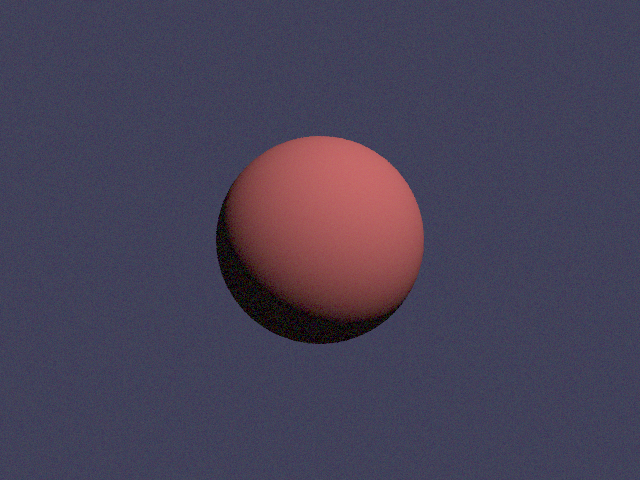
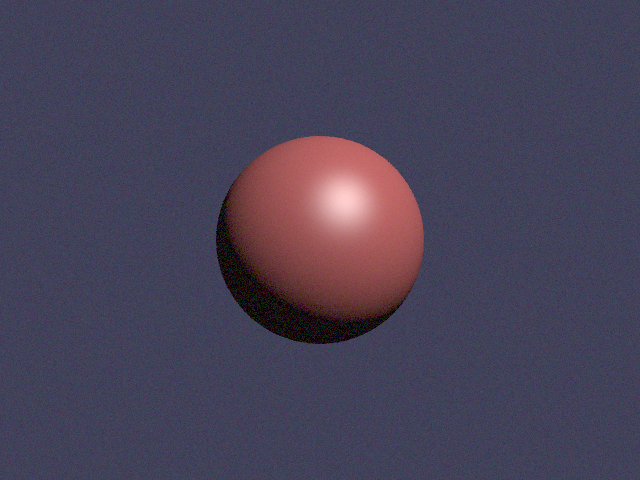
feat(shading): add Blinn-Phong specular with white saturation (#T053)
Blinn-Phong H=normalize(L+V), spec=pow(max(dot(N,H),0),shininess)
*specular*lightColor*intensity, backface/degenerate/NaN to 0,
noexcept no alloc (R2/R3). Renderer adds one pow per non-occluded
point light (V=-ray.dir, intensity already attenuated T051, saturate
to white per SPEC 3.2d). ARCHITECTURE 4.4 noted.

DoD: rt_test green (179 cases / 51549 assertions, [t053] 4 cases:
N=H peak 0.5, backface/degenerate 0, shiny renders white pixels
>=250 vs matte 0, gradient max-min>0.5), run_cases 20 OK,
render_all 10/10 regenerated, test-asan [specular] green, no
throw/new in hot path.

Changed region(s): [[0.4688, 0.3438, 0.5938, 0.5]]

diff --git a/tests/unit/test_specular.cpp b/tests/unit/test_specular.cpp
@@ -1,0 +1,185 @@
+// Tests du speculaire Blinn-Phong (T053, M7), Catch2.
+// DoD : saturation en blanc (pixels proches de (1,1,1) sur sphere lisse) ;
+// degrade visible (luminosite decroit de la lumiere vers l'ombre).
+
+#include <catch2/catch_amalgamated.hpp>
+
+#include <cmath>
+#include <limits>
+#include <string>
+
+#include "rt/render/Framebuffer.hpp"
+#include "rt/render/Renderer.hpp"
+#include "rt/scene/Parser.hpp"
+#include "rt/scene/Scene.hpp"
+#include "rt/shading/Material.hpp"
+
+namespace {
+
+rt::scene::Scene parseOrDie(const std::string& content, const char* name) {
+	rt::Result<rt::scene::Scene> result = rt::scene::parseContent(content, name);
+	REQUIRE(result.isOk());
+	return std::move(result.value());
+}
+
+} // namespace
+
+TEST_CASE("speculaire (T053) : aligne N=H = pic maximal", "[specular][t053]") {
+	const rt::shading::MaterialParams mat{.albedo = rt::Vec3(0.8F, 0.2F, 0.2F),
+	                                      .ambient = 0.1F,
+	                                      .diffuse = 0.7F,
+	                                      .specular = 0.5F,
+	                                      .shininess = 32.0F};
+	const rt::Vec3 normal(0.0F, 0.0F, 1.0F);
+	const rt::Vec3 view(0.0F, 0.0F, 1.0F);
+	const rt::Vec3 lightDir(0.0F, 0.0F, 1.0F);
+	const rt::Vec3 lightColor(1.0F, 1.0F, 1.0F);
+	const rt::Vec3 spec =
+	    rt::shading::specularTerm(normal, view, lightDir, mat, lightColor, 1.0F);
+	// NdotH = 1 -> pow = 1 -> spec = 0.5 * 1.0 = 0.5 par canal.
+	REQUIRE(spec.x == Catch::Approx(0.5F).epsilon(1e-5));
+	REQUIRE(spec.y == Catch::Approx(0.5F).epsilon(1e-5));
+	REQUIRE(spec.z == Catch::Approx(0.5F).epsilon(1e-5));
+	REQUIRE(std::isfinite(spec.x));
+}
+
+TEST_CASE("speculaire (T053) : dos a la lumiere et degeneres -> 0, sans NaN", "[specular][t053]") {
+	const rt::shading::MaterialParams mat{.albedo = rt::Vec3(0.8F, 0.8F, 0.8F),
+	                                      .ambient = 0.1F,
+	                                      .diffuse = 0.7F,
+	                                      .specular = 0.8F,
+	                                      .shininess = 64.0F};
+	const float nan = std::numeric_limits<float>::quiet_NaN();
+	// Dos a la lumiere : N opposee a L -> 0.
+	const rt::Vec3 back =
+	    rt::shading::specularTerm(rt::Vec3(0.0F, 0.0F, 1.0F), rt::Vec3(0.0F, 0.0F, 1.0F),
+	                              rt::Vec3(0.0F, 0.0F, -1.0F), mat, rt::Vec3(1.0F, 1.0F, 1.0F), 1.0F);
+	REQUIRE(back.x == 0.0F);
+	REQUIRE(back.y == 0.0F);
+	REQUIRE(back.z == 0.0F);
+	// Normale nulle -> 0.
+	const rt::Vec3 nullN =
+	    rt::shading::specularTerm(rt::Vec3{}, rt::Vec3(0.0F, 0.0F, 1.0F),
+	                              rt::Vec3(0.0F, 0.0F, 1.0F), mat, rt::Vec3(1.0F, 1.0F, 1.0F), 1.0F);
+	REQUIRE(nullN.x == 0.0F);
+	// Vue nulle -> 0.
+	const rt::Vec3 nullV =
+	    rt::shading::specularTerm(rt::Vec3(0.0F, 0.0F, 1.0F), rt::Vec3{},
+	                              rt::Vec3(0.0F, 0.0F, 1.0F), mat, rt::Vec3(1.0F, 1.0F, 1.0F), 1.0F);
+	REQUIRE(nullV.x == 0.0F);
+	// Specular 0 -> 0.
+	rt::shading::MaterialParams flat = mat;
+	flat.specular = 0.0F;
+	const rt::Vec3 none =
+	    rt::shading::specularTerm(rt::Vec3(0.0F, 0.0F, 1.0F), rt::Vec3(0.0F, 0.0F, 1.0F),
+	                              rt::Vec3(0.0F, 0.0F, 1.0F), flat, rt::Vec3(1.0F, 1.0F, 1.0F), 1.0F);
+	REQUIRE(none.x == 0.0F);
+	// Intensite 0 ou NaN -> 0, jamais de NaN.
+	const rt::Vec3 zeroI =
+	    rt::shading::specularTerm(rt::Vec3(0.0F, 0.0F, 1.0F), rt::Vec3(0.0F, 0.0F, 1.0F),
+	                              rt::Vec3(0.0F, 0.0F, 1.0F), mat, rt::Vec3(1.0F, 1.0F, 1.0F), 0.0F);
+	REQUIRE(zeroI.x == 0.0F);
+	const rt::Vec3 nanI =
+	    rt::shading::specularTerm(rt::Vec3(0.0F, 0.0F, 1.0F), rt::Vec3(0.0F, 0.0F, 1.0F),
+	                              rt::Vec3(0.0F, 0.0F, 1.0F), mat, rt::Vec3(1.0F, 1.0F, 1.0F), nan);
+	REQUIRE(nanI.x == 0.0F);
+	REQUIRE(std::isfinite(nanI.x));
+	// `shadeSpecular` ponctuelle : lumiere confondue au point -> 0.
+	rt::shading::PointLightParams coincident;
+	coincident.position = rt::Vec3(0.0F, 0.0F, 0.0F);
+	coincident.color = rt::Vec3(1.0F, 1.0F, 1.0F);
+	coincident.intensity = 2.0F;
+	const rt::Vec3 coinc = rt::shading::shadeSpecular(mat, rt::Vec3(0.0F, 0.0F, 1.0F),
+	                                                  rt::Vec3(0.0F, 0.0F, 1.0F),
+	                                                  rt::Vec3(0.0F, 0.0F, 0.0F), coincident);
+	REQUIRE(coinc.x == 0.0F);
+	REQUIRE(std::isfinite(coinc.x));
+}
+
+TEST_CASE("speculaire (T053) : saturation en blanc sur sphere lisse (DoD)", "[specular][t053]") {
+	// Sphere lisse face camera, spot frontal fort : le reflet sature en blanc.
+	const char* shiny =
+	    "scene { camera { position (0 0 5) target (0 0 0) fov 60 } "
+	    "background { color (0.02 0.02 0.05) } "
+	    "ambient { color (0.06 0.06 0.08) intensity 1.0 } "
+	    "lights { light { position (0 3 5) color (1 1 1) intensity 2.0 } } "
+	    "objects { object { type sphere center (0 0 0) radius 1 material { "
+	    "albedo (0.8 0.2 0.2) diffuse 0.7 ambient 0.1 specular 1.0 shininess 32 } } } }";
+	const char* matte =
+	    "scene { camera { position (0 0 5) target (0 0 0) fov 60 } "
+	    "background { color (0.02 0.02 0.05) } "
+	    "ambient { color (0.06 0.06 0.08) intensity 1.0 } "
+	    "lights { light { position (0 3 5) color (1 1 1) intensity 2.0 } } "
+	    "objects { object { type sphere center (0 0 0) radius 1 material { "
+	    "albedo (0.8 0.2 0.2) diffuse 0.7 ambient 0.1 specular 0.0 shininess 32 } } } }";
+	rt::scene::Scene sceneShiny = parseOrDie(shiny, "shiny.rt");
+	rt::scene::Scene sceneMatte = parseOrDie(matte, "matte.rt");
+	const rt::render::RenderParams params{.width = 64, .height = 48, .spp = 4, .seed = 0};
+	rt::render::Framebuffer fbShiny;
+	rt::render::Framebuffer fbMatte;
+	REQUIRE(rt::render::render(sceneShiny, fbShiny, params).isOk());
+	REQUIRE(rt::render::render(sceneMatte, fbMatte, params).isOk());
+	// Comptage sur l'affichage (post `present()`, gamma 2.2) : blanc = 255.
+	int whiteShiny = 0;
+	int whiteMatte = 0;
+	for (int y = 0; y < params.height; ++y) {
+		for (int x = 0; x < params.width; ++x) {
+			const std::size_t idx =
+			    static_cast<std::size_t>(y) * static_cast<std::size_t>(params.width) +
+			    static_cast<std::size_t>(x);
+			const auto& px = fbShiny.displayData()[idx];
+			if (px.r >= 250 && px.g >= 250 && px.b >= 250) {
+				++whiteShiny;
+			}
+			const auto& pm = fbMatte.displayData()[idx];
+			if (pm.r >= 250 && pm.g >= 250 && pm.b >= 250) {
+				++whiteMatte;
+			}
+			REQUIRE(std::isfinite(fbShiny.accumAt(x, y).x));
+		}
+	}
+	INFO("blancs spec=1 : " << whiteShiny << " spec=0 : " << whiteMatte);
+	// DoD : presence de pixels proches de (1,1,1) avec speculaire...
+	REQUIRE(whiteShiny > 0);
+	// ...et aucun sans speculaire (meme geometrie, meme lumiere).
+	REQUIRE(whiteMatte == 0);
+}
+
+TEST_CASE("speculaire (T053) : degrade visible de la lumiere vers l'ombre (DoD)",
+          "[specular][t053]") {
+	rt::scene::Scene scene = parseOrDie(
+	    "scene { camera { position (0 0 5) target (0 0 0) fov 60 } "
+	    "background { color (0.02 0.02 0.05) } "
+	    "ambient { color (0.06 0.06 0.08) intensity 1.0 } "
+	    "lights { light { position (0 3 5) color (1 1 1) intensity 2.0 } } "
+	    "objects { object { type sphere center (0 0 0) radius 1 material { "
+	    "albedo (0.8 0.2 0.2) diffuse 0.7 ambient 0.1 specular 1.0 shininess 32 } } } }",
+	    "grad.rt");
+	const rt::render::RenderParams params{.width = 64, .height = 48, .spp = 4, .seed = 0};
+	rt::render::Framebuffer fb;
+	REQUIRE(rt::render::render(scene, fb, params).isOk());
+	float minLum = 10.0F;
+	float maxLum = -10.0F;
+	for (int y = 0; y < params.height; ++y) {
+		for (int x = 0; x < params.width; ++x) {
+			const std::size_t idx =
+			    static_cast<std::size_t>(y) * static_cast<std::size_t>(params.width) +
+			    static_cast<std::size_t>(x);
+			const auto& px = fb.displayData()[idx];
+			const float lum =
+			    (static_cast<float>(px.r) + static_cast<float>(px.g) + static_cast<float>(px.b)) /
+			    (3.0F * 255.0F);
+			if (lum < minLum) {
+				minLum = lum;
+			}
+			if (lum > maxLum) {
+				maxLum = lum;
+			}
+		}
+	}
+	INFO("min=" << minLum << " max=" << maxLum);
+	// Le point blanc sature pendant que le fond reste sombre : degrade ample.
+	REQUIRE(maxLum > 0.9F);
+	REQUIRE(minLum < 0.3F);
+	REQUIRE((maxLum - minLum) > 0.5F);
+}

diff --git a/src/shading/Material.cpp b/src/shading/Material.cpp
@@ -31,6 +31,98 @@ Vec3 saturate(Vec3 color) noexcept {
 	return Vec3(sanitizeChannel(color.x), sanitizeChannel(color.y), sanitizeChannel(color.z));
 }
 
+Vec3 specularTerm(Vec3 normal, Vec3 viewDir, Vec3 lightDir, const MaterialParams& material,
+                   Vec3 lightColor, float lightIntensity) noexcept {
+	// Coeffs sanitizes (bornes schema R1 : specular 0..1, shininess 1..1024).
+	float specCoeff = 0.0F;
+	if (std::isfinite(material.specular) && material.specular > 0.0F) {
+		specCoeff = material.specular > 1.0F ? 1.0F : material.specular;
+	}
+	if (!(specCoeff > 0.0F)) {
+		return Vec3{};
+	}
+	float shininess = 0.0F;
+	if (std::isfinite(material.shininess) && material.shininess > 0.0F) {
+		shininess = material.shininess;
+		if (shininess < 1.0F) {
+			shininess = 1.0F;
+		} else if (shininess > 1024.0F) {
+			shininess = 1024.0F;
+		}
+	} else {
+		return Vec3{};
+	}
+	float intensity = 0.0F;
+	if (std::isfinite(lightIntensity) && lightIntensity > 0.0F) {
+		intensity = lightIntensity;
+	} else {
+		return Vec3{};
+	}
+	const Vec3 unitN = normalize(normal);
+	const Vec3 unitV = normalize(viewDir);
+	const Vec3 unitL = normalize(lightDir);
+	if (nearZero(unitN) || nearZero(unitV) || nearZero(unitL)) {
+		return Vec3{};
+	}
+	if (!std::isfinite(unitN.x) || !std::isfinite(unitV.x) || !std::isfinite(unitL.x)) {
+		return Vec3{};
+	}
+	float nDotL = dot(unitN, unitL);
+	if (!std::isfinite(nDotL) || nDotL <= 0.0F) {
+		// Dos a la lumiere : pas de reflet (evite le halo arriere).
+		return Vec3{};
+	}
+	const Vec3 halfVec = unitL + unitV;
+	if (nearZero(halfVec)) {
+		return Vec3{};
+	}
+	const Vec3 unitH = normalize(halfVec);
+	if (nearZero(unitH)) {
+		return Vec3{};
+	}
+	float nDotH = dot(unitN, unitH);
+	if (!std::isfinite(nDotH) || nDotH <= 0.0F) {
+		return Vec3{};
+	}
+	if (nDotH > 1.0F) {
+		nDotH = 1.0F;
+	}
+	const double specPow = std::pow(static_cast<double>(nDotH), static_cast<double>(shininess));
+	if (!std::isfinite(specPow) || specPow <= 0.0) {
+		return Vec3{};
+	}
+	const float spec = static_cast<float>(specPow) * specCoeff * intensity;
+	if (!std::isfinite(spec) || !(spec > 0.0F)) {
+		return Vec3{};
+	}
+	const Vec3 cleanColor = Vec3(sanitizeChannel(lightColor.x), sanitizeChannel(lightColor.y),
+	                             sanitizeChannel(lightColor.z));
+	return Vec3(cleanColor.x * spec, cleanColor.y * spec, cleanColor.z * spec);
+}
+
+Vec3 shadeSpecular(const MaterialParams& material, Vec3 normal, Vec3 viewDir, Vec3 hitPoint,
+                   const PointLightParams& light) noexcept {
+	const Vec3 toLight = light.position - hitPoint;
+	if (!std::isfinite(toLight.x) || !std::isfinite(toLight.y) || !std::isfinite(toLight.z)) {
+		return Vec3{};
+	}
+	const float distSq = dot(toLight, toLight);
+	if (!std::isfinite(distSq) || distSq <= kEpsilon * kEpsilon) {
+		return Vec3{};
+	}
+	float intensity = 0.0F;
+	if (std::isfinite(light.intensity) && light.intensity > 0.0F) {
+		intensity = light.intensity;
+	} else {
+		return Vec3{};
+	}
+	const Vec3 lightColor = Vec3(light.color.x, light.color.y, light.color.z);
+	// `normalize(toLight)` : `toLight` non nul ici (garde ci-dessus).
+	const float dist = std::sqrt(distSq);
+	const Vec3 lightDir = toLight / dist;
+	return specularTerm(normal, viewDir, lightDir, material, lightColor, intensity);
+}
+
 Vec3 shadeLambert(const MaterialParams& material, Vec3 normal, Vec3 hitPoint,
                   const PointLightParams& light, const AmbientParams& ambient) noexcept {
 	// Ambiant global : albedo * (couleur * intensite * coeff), sature.

diff --git a/src/render/Renderer.cpp b/src/render/Renderer.cpp
@@ -9,7 +9,8 @@
 // (`tri par t`, `tMax` resserre). Hit -> Lambert (T033) avec le materiau de
 // l'objet touche + ambiance + **toutes** les ponctuelles (T052 : multi-spot,
 // ombres par shadow ray `tMin` eps anti-acne, attenuation T051 par
-// `lighting::attenuationFactor`) ; miss -> fond.
+// `lighting::attenuationFactor`) + speculaire Blinn-Phong (T053 : `specular`,
+// `shininess`, `V = -ray.dir`, sature en blanc) ; miss -> fond.
 // Progressif T036 : batches externes + `seedFor` absolu + jitter sous-pixel
 // (AA en T120) + dithering deterministe minimal (moyenne -> 0 quand spp
 // grandit, conservé pour hit et miss afin que `spp 64 < spp 1` reste vrai).
@@ -350,10 +351,14 @@ Status render(const scene::Scene& scene, Framebuffer& fb, const RenderParams& pa
 					// Ambiant une fois (lumiere d'intensite 0 = ambiant seul,
 					// defini), puis un diffus par source non occultee
 					// (`materiau.ambient = 0` pour ne pas recompter l'ambiant) :
-					// `total = saturate(ambiant + sum diffus_i)`. Mono-lumiere
-					// sans ombre == `shadeLambert()` historique (meme formule,
-					// meme `saturate` final). Chaque `diffus_i` applique
-					// l'attenuation T051 (`intensity * att`, registres, R3).
+					// `total = saturate(ambiant + sum diffus_i + sum spec_i)`.
+					// Mono-lumiere sans ombre == `shadeLambert()` historique +
+					// speculaire T053 (meme formule, meme `saturate` final).
+					// Chaque `diffus_i`/`spec_i` applique l'attenuation T051
+					// (`intensity * att`, registres, R3). Speculaire T053 :
+					// Blinn-Phong (`specular`, `shininess`, sature en blanc),
+					// `V = -ray.dir` (Camera normalise), `L` vers la source,
+					// ajoute seulement si non occultee (ombres T052).
 					// Shadow ray : `origine = P + N*eps` (anti-acne), `dir`
 					// vers la source, `tMax = dist - eps` (profondeur bornee) ;
 					// `occultee` -> contribution 0 de cette source.
@@ -366,6 +371,8 @@ Status render(const scene::Scene& scene, Framebuffer& fb, const RenderParams& pa
 					const Vec3 unitN = normalize(rec.normal);
 					const Vec3 shadowOrigin =
 					    nearZero(unitN) ? rec.point : rec.point + unitN * kPrimaryTMin;
+					// T053 : direction vers l'oeil (rayon normalise par Camera).
+					const Vec3 viewDir = ray.direction * -1.0F;
 					for (const shading::PointLightParams& light : pointLights) {
 						const Vec3 toLight = light.position - rec.point;
 						if (!std::isfinite(toLight.x) || !std::isfinite(toLight.y) ||
@@ -396,6 +403,9 @@ Status render(const scene::Scene& scene, Framebuffer& fb, const RenderParams& pa
 						effLight.intensity = light.intensity * att;
 						total += shading::shadeLambert(matNoAmb, rec.normal, rec.point,
 						                               effLight, ambient);
+						// T053 : reflet Blinn-Phong (sature en blanc, SPEC §3.2 d).
+						total += shading::specularTerm(rec.normal, viewDir, lightDir, mat,
+						                               effLight.color, effLight.intensity);
 					}
 					color = shading::saturate(total);
 				} else {

diff --git a/include/rt/shading/Material.hpp b/include/rt/shading/Material.hpp
@@ -83,4 +83,26 @@ struct PointLightParams {
                                 const PointLightParams& light,
                                 const AmbientParams& ambient) noexcept;
 
+// Speculaire Blinn-Phong (T053, M7 « petit point blanc ») : `H = norm(L+V)`,
+// `spec = pow(max(dot(N,H),0), shininess) * specular * lightColor*intensity`.
+// `normal`, `viewDir` (vers l'oeil, `-ray.dir`), `lightDir` (vers la source)
+// devraient etre normalises (renormalises par securite : nul -> 0).
+// Dos a la lumiere (`NdotL <= 0`), `specular <= 0`, `shininess` degeneree,
+// `H` degenere, NaN/Inf -> 0 (defini, jamais de NaN en sortie).
+// Le resultat N'EST PAS multiplie par l'albedo : il s'ajoute a la couleur
+// de l'objet pour saturer en blanc (SPECIFICATIONS §3.2 d). `noexcept`,
+// sans allocation (R2/R3). Choix Blinn-Phong (demi-vecteur) plutot que
+// Phong (`reflect`) : plus stable aux incidences rasantes, 1 `pow` par
+// lumiere (cout mesure en `docs/BENCH.md`, optimisable en T065).
+[[nodiscard]] Vec3 specularTerm(Vec3 normal, Vec3 viewDir, Vec3 lightDir,
+                                const MaterialParams& material, Vec3 lightColor,
+                                float lightIntensity) noexcept;
+
+// Commodite ponctuelle (T053) : `lightDir` derive de
+// `light.position - hitPoint` (confondue/NaN -> 0). `viewDir` vers l'oeil.
+// Appliquee par `render/` avec `intensity` deja ponderee par l'attenuation
+// T051 (registres, R3). `noexcept`, sans allocation.
+[[nodiscard]] Vec3 shadeSpecular(const MaterialParams& material, Vec3 normal, Vec3 viewDir,
+                                 Vec3 hitPoint, const PointLightParams& light) noexcept;
+
 } // namespace rt::shading

diff --git a/docs/ARCHITECTURE.md b/docs/ARCHITECTURE.md
@@ -306,6 +306,15 @@ color   += lightColor * intensity * att
   ombres « assombries selon le nombre de sources visibles » (item *Lights*, image 3).
 - **Brillance** : terme spéculaire **ajouté** à la couleur de l'objet → saturation en blanc.
 
+> Implémenté (T053, M7) : `shading::specularTerm()` (Blinn-Phong, `H = norm(L+V)`,
+> `spec = pow(max(dot(N,H),0), shininess) * specular * lightColor*intensity`,
+> dos à la lumière / dégénérés / NaN → 0, jamais de NaN, `noexcept`, sans
+> allocation) + `shadeSpecular()` (ponctuelle, `L` depuis `position`) branchés
+> dans `render/` (`V = -ray.dir`, 1 `pow` par lumière non occultée, `saturate`
+> final en blanc). Tests : `tests/unit/test_specular.cpp` (pic `N=H` = 0.5,
+> dos/dégénérés = 0, DoD saturation `spec=1` → pixels 255 vs `spec=0` → 0,
+> dégradé `max-min > 0.5`).
+
 ### 4.5 Rayons d'ombre et transparence
 
 ```
